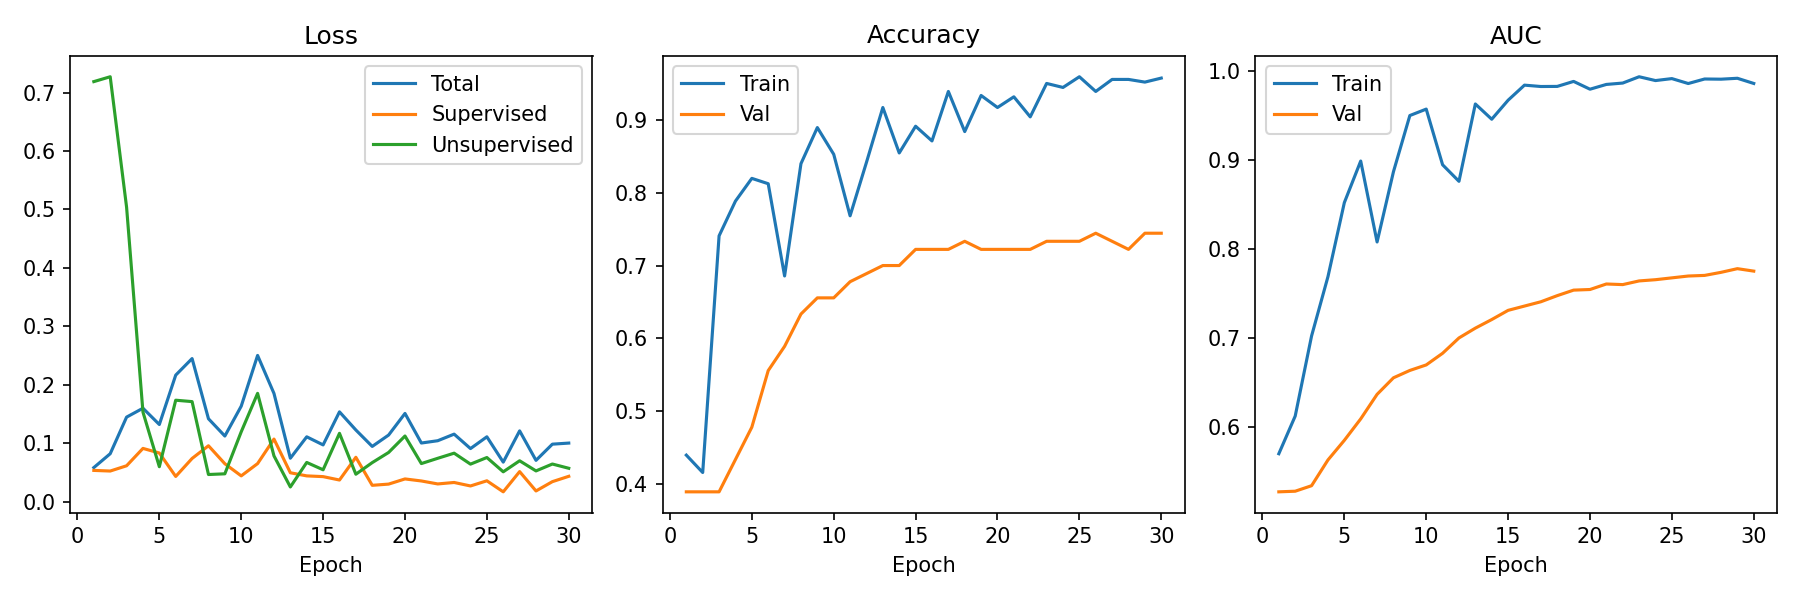
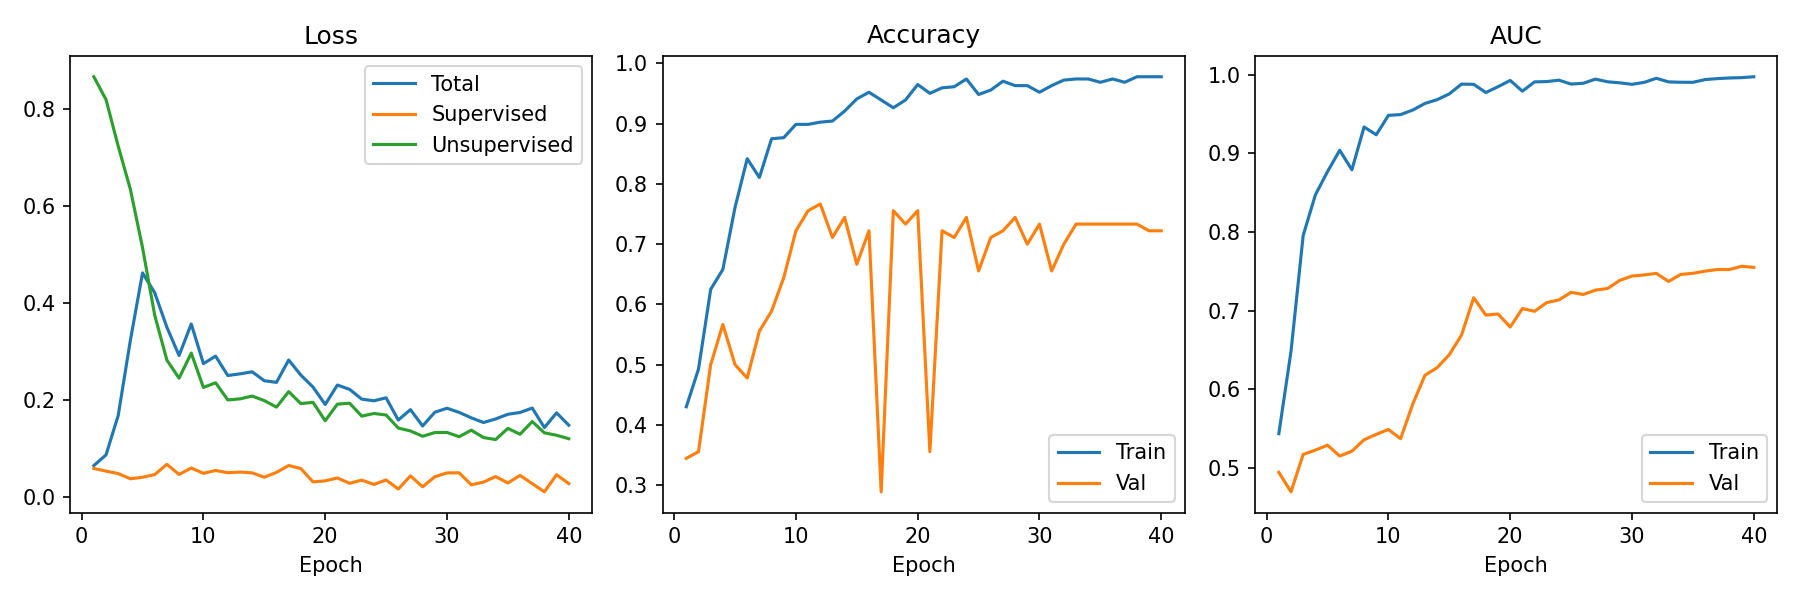
Refine lesion classification configuration by increasing EPOCHS to 40, adjusting WEIGHT_DECAY to 0.01, and modifying FOCAL_ALPHA to 0.80 for improved class balance. Update data augmentation strategies to include vertical flipping and enhance the weighted sampler logic for better handling of class im

diff --git a/lesion_classification/data.py b/lesion_classification/data.py
@@ -1,6 +1,5 @@
 from dataclasses import dataclass
 from pathlib import Path
-import random
 import shutil
 
 import albumentations as Augm
@@ -10,7 +9,7 @@ import cv2
 import numpy as np
 import pandas as pd
 import torch
-from torch.utils.data import ConcatDataset, DataLoader, Dataset, WeightedRandomSampler
+from torch.utils.data import DataLoader, Dataset, WeightedRandomSampler
 
 from .config import ensure_dirs, settings
 
@@ -211,6 +210,7 @@ def get_transforms() -> DataTransforms:
         [
             Augm.RandomResizedCrop(size=(settings.IMAGE_SIZE, settings.IMAGE_SIZE), scale=(0.8, 1.0)),
             Augm.HorizontalFlip(p=0.5),
+            Augm.VerticalFlip(p=0.5),
             Augm.Normalize(mean=IMAGENET_MEAN, std=IMAGENET_STD),
             ToTensorV2(),
         ]
@@ -246,7 +246,7 @@ def get_transforms() -> DataTransforms:
                 ],
                 p=0.3,
             ),
-            Augm.CoarseDropout(fill_value=0, max_holes=8, max_height=32, max_width=32, p=0.5),
+            Augm.CoarseDropout(max_holes=8, max_height=32, max_width=32, p=0.5),
             Augm.RandomBrightnessContrast(brightness_limit=0.2, contrast_limit=0.2, p=0.3),
             Augm.Normalize(mean=IMAGENET_MEAN, std=IMAGENET_STD),
             ToTensorV2(),
@@ -260,17 +260,24 @@ def get_transforms() -> DataTransforms:
         pca=pca_transform,
         weak=weak_transform,
         strong=strong_transform,
+        train_labeled=weak_transform,  # FixMatch uses weak for labeled
     )
 
 
-def _build_weighted_sampler(train_dataset: ConcatDataset, benign_count: int, malignant_count: int) -> WeightedRandomSampler:
+def _build_weighted_sampler(train_dataset: Dataset, benign_count: int, malignant_count: int) -> WeightedRandomSampler:
     label_weights = []
     benign_weight = 1.0 / max(benign_count, 1)
     malignant_weight = 1.0 / max(malignant_count, 1)
-    for dataset in train_dataset.datasets:
-        if isinstance(dataset, AugmentedDataset):
-            for filepath in dataset.images_filepaths:
-                label_weights.append(malignant_weight if _label_from_path(filepath) == 1.0 else benign_weight)
+
+    # Iterate through the dataset to assign weights based on labels
+    if isinstance(train_dataset, AugmentedDataset):
+        for filepath in train_dataset.images_filepaths:
+            label_weights.append(malignant_weight if _label_from_path(filepath) == 1.0 else benign_weight)
+    else:
+        # Fallback for generic dataset
+        for _, label in train_dataset:
+            label_weights.append(malignant_weight if label == 1.0 else benign_weight)
+
     return WeightedRandomSampler(label_weights, num_samples=len(label_weights), replacement=True)
 
 
@@ -282,32 +289,19 @@ def get_dataloaders(batch_size: int = 32):
     benign_dir = settings.TRAIN_DIR / "benign"
     malignant_dir = settings.TRAIN_DIR / "malignant"
 
-    # Get filepaths for upsampling minority class (malignant)
     benign_filepaths = _list_images(benign_dir)
     malignant_filepaths = _list_images(malignant_dir)
 
-    # Upsampling (Malignant x2 as in notebook)
-    aug_train_filepaths = [*benign_filepaths, *malignant_filepaths]
-    if not settings.USE_WEIGHTED_SAMPLER:
-        aug_train_filepaths = [*aug_train_filepaths, *malignant_filepaths]
-    random.seed(settings.SPLIT_SEED)
-    random.shuffle(aug_train_filepaths)
-
-    # Create augmented datasets
-    geo_ds = AugmentedDataset(aug_train_filepaths, transform=transforms.geo)
-    col_ds = AugmentedDataset(aug_train_filepaths, transform=transforms.color)
-    pca_ds = AugmentedDataset(aug_train_filepaths, transform=transforms.pca)
-    aug_train_dataset = ConcatDataset([geo_ds, col_ds, pca_ds])
-
-    standard_train_filepaths = [*benign_filepaths, *malignant_filepaths]
-    standard_train_dataset = AugmentedDataset(standard_train_filepaths, transform=transforms.normalize)
-    train_dataset = ConcatDataset([standard_train_dataset, aug_train_dataset])
+    # Combined filepaths for labeled training
+    train_filepaths = [*benign_filepaths, *malignant_filepaths]
+    train_dataset = AugmentedDataset(train_filepaths, transform=transforms.train_labeled)
 
     unlabeled_dataset = UnlabeledDataset(settings.UNLABELED_DIR, weak_transform=transforms.weak, strong_transform=transforms.strong)
     val_filepaths = _list_images(settings.VAL_DIR / "benign") + _list_images(settings.VAL_DIR / "malignant")
     val_dataset = AugmentedDataset(val_filepaths, transform=transforms.normalize)
 
     generator = torch.Generator().manual_seed(settings.SPLIT_SEED)
+
     sampler = None
     if settings.USE_WEIGHTED_SAMPLER:
         sampler = _build_weighted_sampler(train_dataset, len(benign_filepaths), len(malignant_filepaths))
@@ -321,6 +315,7 @@ def get_dataloaders(batch_size: int = 32):
         pin_memory=settings.PIN_MEMORY,
         generator=generator,
     )
+
     unlabeled_loader = DataLoader(
         unlabeled_dataset,
         batch_size=batch_size,

diff --git a/lesion_classification/config.py b/lesion_classification/config.py
@@ -16,9 +16,9 @@ class Settings(BaseSettings):
 
     # Training Hyperparameters
     BATCH_SIZE: int = 32
-    EPOCHS: int = 30  # More epochs since SSL benefits from longer training
+    EPOCHS: int = 40  # Slightly more epochs for better SSL convergence
     LEARNING_RATE: float = 1e-4  # Lower LR for more stable training
-    WEIGHT_DECAY: float = 5e-3  # Stronger regularization to combat overfitting
+    WEIGHT_DECAY: float = 1e-2  # Stronger regularization to combat overfitting
 
     # Model Settings
     DEVICE: str = "cuda" if torch.cuda.is_available() else "cpu"
@@ -27,7 +27,7 @@ class Settings(BaseSettings):
 
     # Loss Settings
     FOCAL_GAMMA: float = 2.0
-    FOCAL_ALPHA: float = 0.85  # For 5.4:1 ratio: majority_count/total = 228/270 ≈ 0.844
+    FOCAL_ALPHA: float = 0.80  # Slightly adjusted to be less aggressive than 0.85
     SUPERVISED_LOSS: str = "focal"  # Try focal loss with corrected alpha
     POS_WEIGHT: float = 2.5
     AUTO_POS_WEIGHT: bool = True  # Auto-compute based on class ratio
@@ -41,19 +41,19 @@ class Settings(BaseSettings):
     IMAGE_SIZE: int = 224
     NUM_WORKERS: int = 2
     PIN_MEMORY: bool = torch.cuda.is_available()
-    USE_WEIGHTED_SAMPLER: bool = False
+    USE_WEIGHTED_SAMPLER: bool = True
 
     # Semi-supervised settings (FixMatch)
     FIXMATCH_TAU: float = 0.85  # Lowered from 0.95 to accept more pseudo-labels
-    FIXMATCH_TAU_POS: float = 0.80  # Lower for minority class (malignant)
+    FIXMATCH_TAU_POS: float = 0.75  # Lower for minority class (malignant)
     FIXMATCH_TAU_NEG: float = 0.90  # Higher for majority class (benign)
     FIXMATCH_USE_ASYMMETRIC_TAU: bool = True  # Enable class-specific thresholds
     FIXMATCH_TAU_SCHEDULE: bool = False
     FIXMATCH_TAU_START: float = 0.95
     FIXMATCH_TAU_END: float = 0.85
     FIXMATCH_TAU_SCHEDULE_EPOCHS: int = 8
-    FIXMATCH_LAMBDA_U: float = 1.0  # Increased from 0.3 to leverage unlabeled data
-    FIXMATCH_RAMPUP_EPOCHS: int = 5  # Faster ramp-up (was 10)
+    FIXMATCH_LAMBDA_U: float = 2.0  # Increased to leverage unlabeled data more
+    FIXMATCH_RAMPUP_EPOCHS: int = 10  # Slower ramp-up for stability
     FIXMATCH_MIN_TAU: float = 0.75  # Allow lower thresholds for FlexMatch
     FIXMATCH_USE_CLASS_THRESHOLDS: bool = False
     FIXMATCH_DISTRIBUTION_ALIGNMENT: bool = True  # Enable to correct class bias
@@ -74,7 +74,7 @@ class Settings(BaseSettings):
     MIXUP_PROB: float = 0.5  # Probability of applying MixUp per batch
 
     # Training control
-    EARLY_STOP_PATIENCE: int = 8  # More patience since SSL needs time to converge
+    EARLY_STOP_PATIENCE: int = 10  # More patience for SSL to fully converge
     SAVE_BEST_CHECKPOINT: bool = True
     BEST_METRIC: str = "val_ap"  # AP is better for imbalanced data
     CHECKPOINT_DIR: Path = PROJECT_ROOT / "checkpoints"
@@ -86,7 +86,7 @@ class Settings(BaseSettings):
     EMA_DECAY: float = 0.999
     FREEZE_BACKBONE_EPOCHS: int = 2
     LR_LAYER_DECAY: float = 0.8
-    INIT_BIAS_FROM_PRIOR: bool = False
+    INIT_BIAS_FROM_PRIOR: bool = True  # Initialize output bias from class distribution
 
     # Derived stats (populated at runtime)
     TRAIN_POS_RATIO: float | None = None

diff --git a/lesion_classification/trainer.py b/lesion_classification/trainer.py
@@ -180,12 +180,19 @@ def train_one_epoch_fixmatch(
         ema_select = torch.tensor([0.0, 0.0], device=device)
         ema_total = torch.tensor([1e-6, 1e-6], device=device)
 
-    labeled_iter = itertools.cycle(labeled_loader)
+    unlabeled_iter = itertools.cycle(unlabeled_loader)
     accepted_pos = 0.0
     accepted_neg = 0.0
     accepted_total = 0.0
-    for weak_imgs, strong_imgs in unlabeled_loader:
-        labeled_imgs, labeled_targets = next(labeled_iter)
+
+    # We use labeled_loader to drive the loop to ensure we see all labeled data
+    for labeled_imgs, labeled_targets in labeled_loader:
+        try:
+            weak_imgs, strong_imgs = next(unlabeled_iter)
+        except StopIteration:
+            unlabeled_iter = itertools.cycle(unlabeled_loader)
+            weak_imgs, strong_imgs = next(unlabeled_iter)
+
         num_batches += 1
 
         labeled_imgs = labeled_imgs.to(device)
@@ -249,14 +256,14 @@ def train_one_epoch_fixmatch(
                 thresholds = torch.full_like(confidence, base_tau)
 
             strong_logits = model(strong_imgs)
-            unsup_loss = F.binary_cross_entropy_with_logits(strong_logits, pseudo_labels, reduction="none")
+            unsup_loss_all = F.binary_cross_entropy_with_logits(strong_logits, pseudo_labels, reduction="none")
             mask = _topk_mask(confidence, pseudo_labels) if settings.FIXMATCH_USE_TOPK else (confidence >= thresholds).float()
             if settings.SOFT_PSEUDO_LABELS:
                 denom = (1 - thresholds).clamp_min(1e-6)
                 weights = ((confidence - thresholds) / denom).clamp(0, 1)
-                unsup_loss = (unsup_loss * weights).sum() / (weights.sum() + 1e-8)
+                unsup_loss = (unsup_loss_all * weights).sum() / (weights.sum() + 1e-8)
             else:
-                unsup_loss = (unsup_loss * mask).sum() / (mask.sum() + 1e-8)
+                unsup_loss = (unsup_loss_all * mask).sum() / (mask.sum() + 1e-8)
             accepted_total += float(mask.sum().item())
             accepted_pos += float((mask * pseudo_labels).sum().item())
             accepted_neg += float((mask * (1 - pseudo_labels)).sum().item())

diff --git a/lesion_classification/utils.py b/lesion_classification/utils.py
@@ -39,8 +39,7 @@ def plot_history(history: dict[str, list[float]], output_dir: Path | None = None
     plt.subplot(1, 3, 1)
     plt.plot(epochs, history["loss_total"], label="Total")
     plt.plot(epochs, history["loss_sup"], label="Supervised")
-    unsup_key = "loss_unsup" if "loss_unsup" in history else "loss_con"
-    plt.plot(epochs, history[unsup_key], label="Unsupervised")
+    plt.plot(epochs, history["loss_unsup"], label="Unsupervised")
     plt.title("Loss")
     plt.xlabel("Epoch")
     plt.legend()
